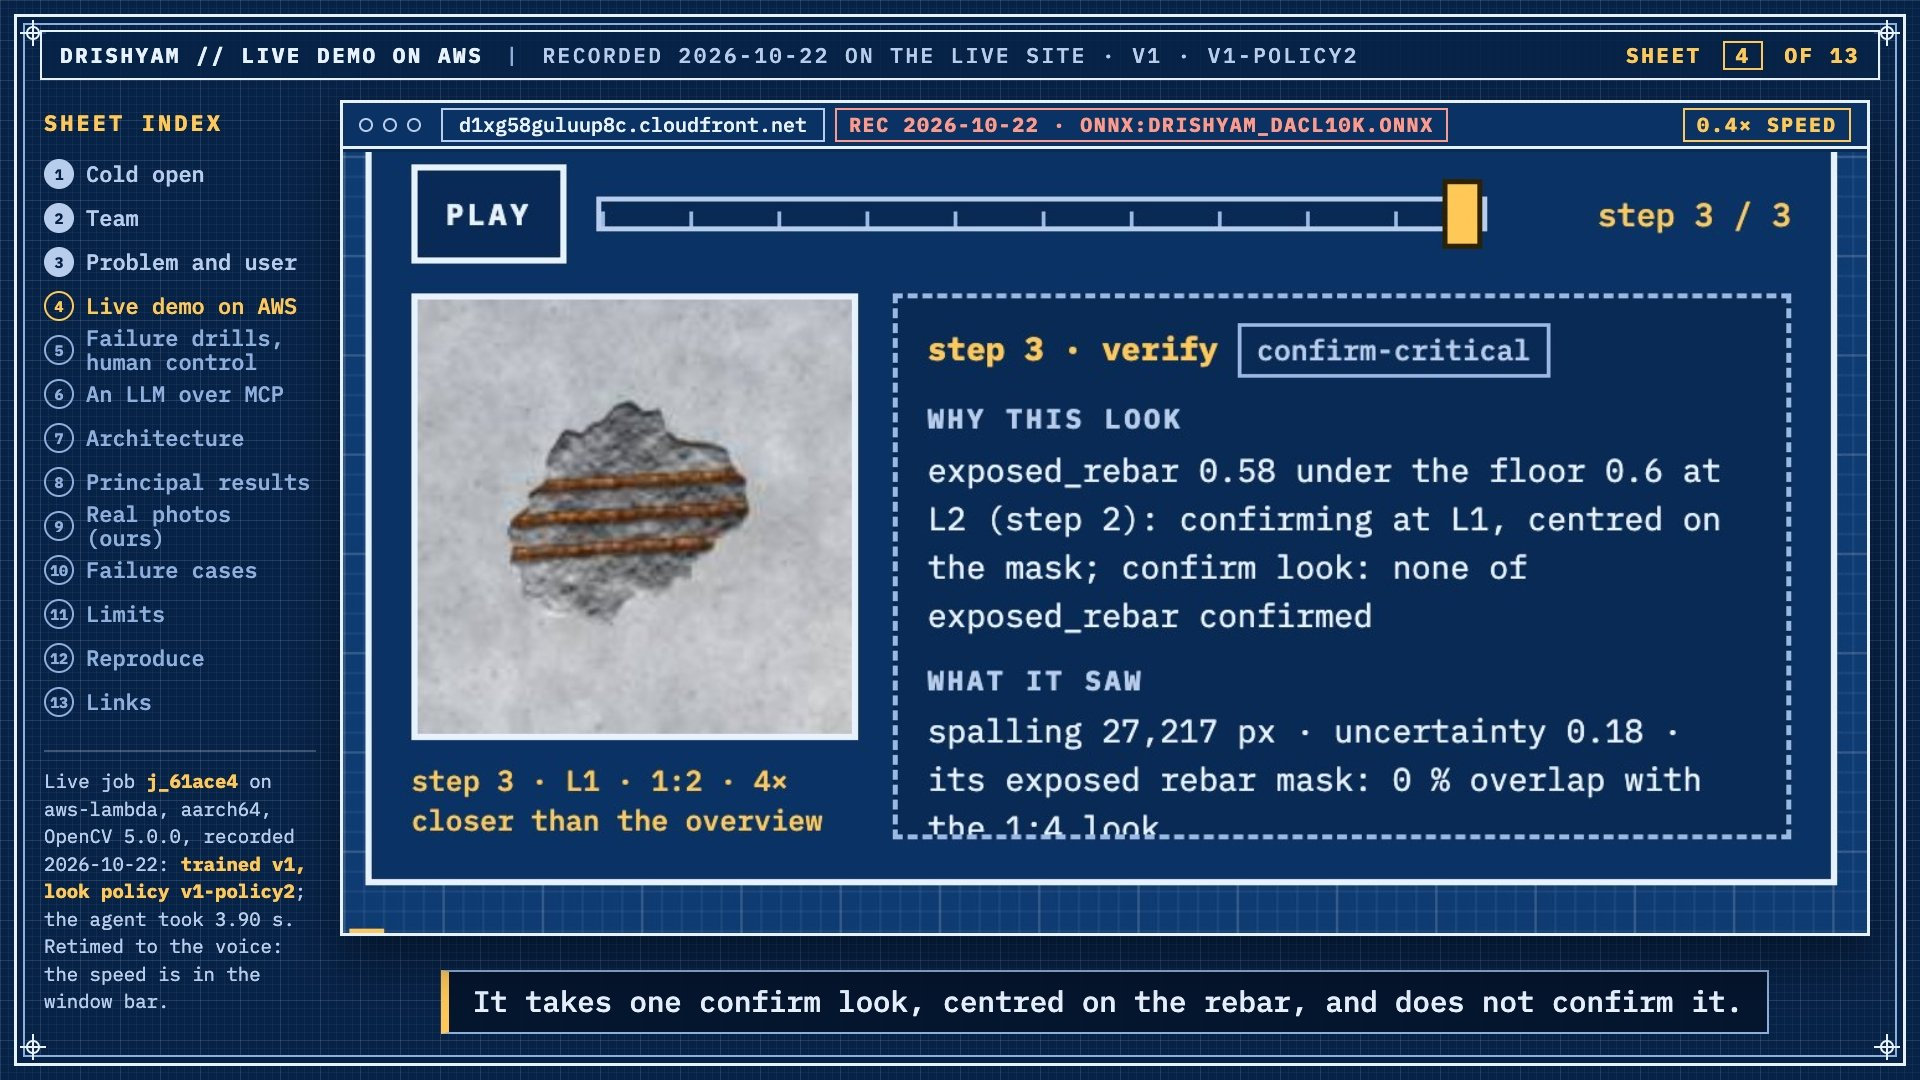
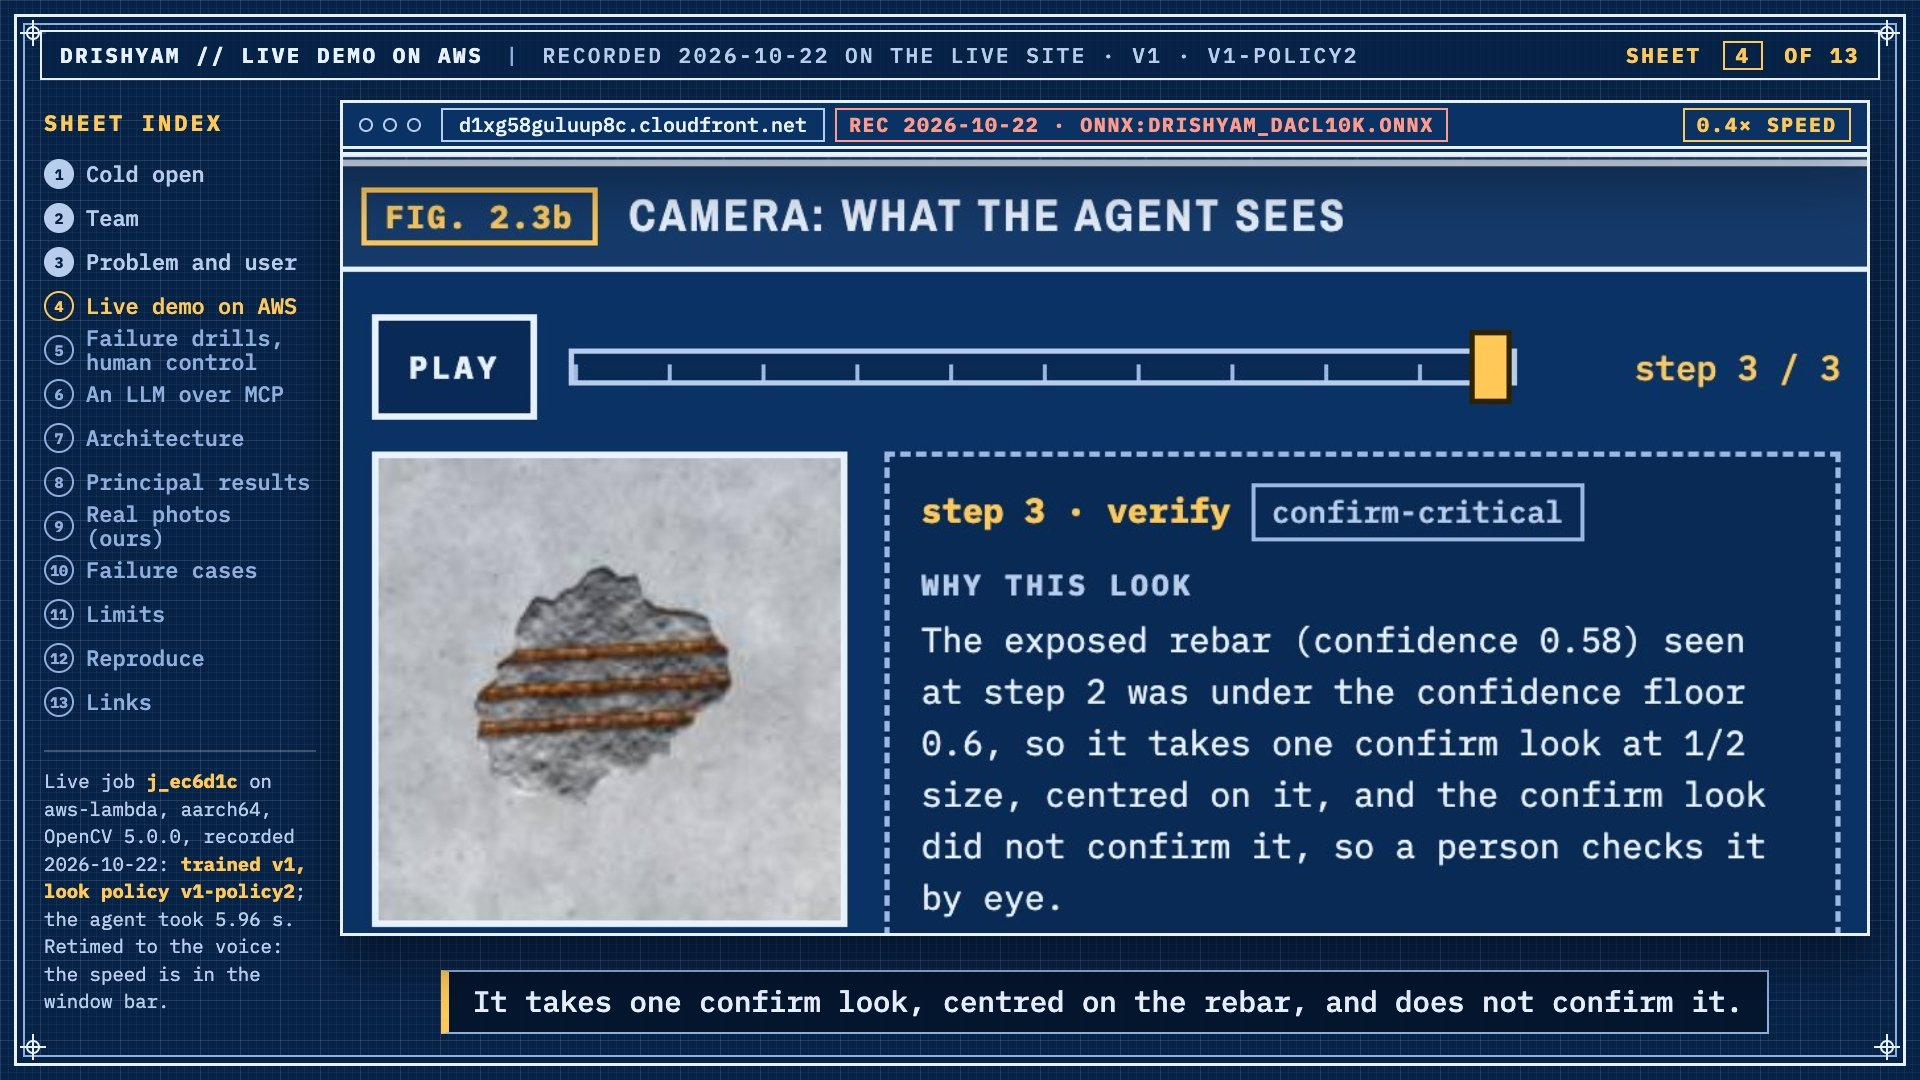
video: re-record the live chapter on ed7a080 (worded step panel) and render the film and the short
The site was redeployed at ed7a080, whose step panel words v1-policy2's held-mask and confirm-look
reasons instead of printing the raw rationale. The live footage is recorded again on it (07:26Z, jobs
j_ec6d1c guided, j_c81586 break it, j_76da9f KILL, j_2df829 Resume): the same runs as the first
recording of the day (the rebar held at 0.58 under the 0.6 floor, its L1 confirm look not confirming
it, a person to check it by eye; the spalling the one critical finding; the order incomplete after
its approval; the governor's fast model at step 5, "rm -rf /" rejected at step 6; KILL after 3 looks,
Resume stopping with g8 unvisited), so every narration assert holds unchanged.

The step-3 camera key now frames the panel's crop and WHY THIS LOOK and ends above WHAT IT SAW, whose
last line the site's fixed-height panel clips, through the hold's push. One full render: the film
247.9 s (56 cues), the 9:16 short 15.5 s; the poster is step 3's worded confirm look.

Changed region(s): [[0.1562, 0.1222, 0.9688, 0.8861], [0.0938, 0.7028, 0.125, 0.7333]]

diff --git a/video/film.js b/video/film.js
@@ -380,7 +380,9 @@ function buildLive() {
     KF(cw - 1.9, 560, 470, 1150), KF(cw + 0.15, 330, 560, 900),
     KF(ev['step:1'] - 0.6, 380, 560, 1060), KF(ev['step:2'] + 0.4, 340, 560, 900),
     KF(ev['step:2'] + 2.0, 950, 735, 660),   // step 2's decision: the spalling critical, the rebar held for a confirm look
-    KF(ev['step:3'] + 0.3, 950, 355, 640), KF(ev['step:3'] + 1.8, 950, 750, 660),   // the confirm look, then "a person checks it by eye"
+    // the confirm look: its crop and WHY THIS LOOK, the view ending above WHAT IT SAW (the site's panel clips that box's
+    // last line) through the hold's push; then the decision panel's "a person checks it by eye"
+    KF(ev['step:3'] + 0.3, 948, 289, 600), KF(ev['step:3'] + 1.8, 950, 750, 660),
     KF(ev['step:4'] + 0.3, 420, 560, 1000), KF(ev['done:guided'] + 0.3, 560, 330, 1080),
     KF(ev['click:Sign them off'], 640, 560, 1240), KF(ev['click:Sign them off'] + 1.4, 330, 720, 840),
     KF(ev[`approved:${N - 1}`] + 0.3, 420, 700, 900), KF(ev[`approved:${N - 1}`] + 1.2, 945, 400, 700),

diff --git a/video/plan.md b/video/plan.md
@@ -12,7 +12,7 @@ stamping in at each chapter.
 | --- | --- | --- |
 | `public/video/drishyam.mp4` | the video (H.264 + AAC, poster baked in as frame 0) | no: `public/video/*.mp4` is ignored; it ships to the site bucket at deploy time and as a release asset |
 | `public/video/drishyam.vtt` | captions, the same cues as the burned-in ones (written by the same build as the MP4) | yes |
-| `public/video/poster.jpg` | the agent's confirm look on the rebar in the live run (line `l5`, step 3: the camera panel with its crop and its reason, "confirm look: none of exposed_rebar confirmed"), settled | yes |
+| `public/video/poster.jpg` | the agent's confirm look on the rebar in the live run (line `l5`, step 3: the camera panel with its crop and WHY THIS LOOK, "...the confirm look did not confirm it, so a person checks it by eye"), settled | yes |
 | `brag-output/drishyam-short.mp4` | 15-20 s 9:16 cut: the cold open's run, the sign-off (the typing at real time, then a jump cut to Approve), ending on the settled APPROVED stamp of the spalling and the URL; labelled "recorded 2026-10-22 · live site · v1 · v1-policy2" and "the rebar went to a person to check by eye"; its three lines are o1, "Only a person can approve a critical finding." and "Try it live: the trained v1."; v1's held-out result in the lower third, with what v1-policy2 changes (8.75 critical boxes per photo, 0.91×; recall 0.99×) | no (brag-output/ is ignored) |
 | `brag-output/standin/film/` | `build.py --standin`: the film with the stand-in real-photo runs, if `--make-standin` made them (nothing is pending any more): `drishyam-standin.mp4`, `drishyam-standin.vtt`, `poster-standin.jpg`, `plan-tables.md` | no |
 
@@ -141,7 +141,7 @@ the line from the real summary, measures the whole film (both real photos) again
 summary charged another machine's cost table is refused.
 
 The live site runs v1 with the v1-policy2 look policy (since 2026-10-22), and the footage is of that build (the
-`/api/health` recorded with it, `video/live/health.json`: commit c1830c4). `video/live/aws-smoke.log` is a copy of
+`/api/health` recorded with it, `video/live/health.json`: commit ed7a080). `video/live/aws-smoke.log` is a copy of
 the main checkout's `runs/aws-smoke.log` (every `scripts/aws.sh smoke` run's `/api/health` and step p95) up to
 2026-10-21T11:38:30Z: `docs/aws.md` and `tests/test_live_state_doc.py` quote its eleven v1 runs, so the two smoke runs
 of 2026-10-22 (adf9474, c1830c4) are not in the copy yet. The build groups the runs by the segmenter their health
@@ -173,10 +173,9 @@ writes `health.json` and the boxes of its key fields, the segmenter's and the wh
 
 ## Length
 
-The committed tables below are the layout of 247.9 s: `r8` gained what the live look policy changes. The committed
-`public/video/drishyam.vtt` and poster, and the MP4, are still the render of 243.6 s from before that line (239.9 s
-before the live chapter was re-recorded on 2026-10-22); the next full render, after the live chapter is recorded
-again, brings them back in step. With the trained segmenter's line,
+Nothing is pending: the committed tables below are the film as rendered, 247.9 s (239.9 s before the live chapter
+was re-recorded on 2026-10-22; its new lines say more about the rebar, and `r8` says what the live look policy
+changes). With the trained segmenter's line,
 both real photos and the portraits on, the narration first measured 285 s; it came to 4:00 by cutting words and
 holds, not chapters:
 
@@ -201,9 +200,11 @@ and AWS and Arm (the arm Lambda, its latency then and now).
 ## How the footage is used, honestly
 
 - Every frame of the demo chapters is a screencast of a real job on https://d1xg58guluup8c.cloudfront.net
-  (recorded 2026-10-22, live jobs `j_61ace4` guided, `j_e1aec5` break it, `j_7d4406` KILL, `j_75944f` Resume), on the
-  build the site runs now: v1 with the v1-policy2 look policy (`video/live/health.json`: `onnx:drishyam_dacl10k.onnx`,
-  commit c1830c4). It replaced the footage of 2026-10-18, recorded on the classical engine. Each run's trace is saved,
+  (recorded 2026-10-22 at about 07:26Z, live jobs `j_ec6d1c` guided, `j_c81586` break it, `j_76da9f` KILL, `j_2df829`
+  Resume), on the build the site runs now: v1 with the v1-policy2 look policy (`video/live/health.json`:
+  `onnx:drishyam_dacl10k.onnx`, commit ed7a080, the deploy whose step panel words the held-mask and confirm-look
+  reasons). It replaced the footage of 2026-10-18, recorded on the classical engine, and a first recording of
+  2026-10-22 (c1830c4), whose step panel printed the raw rationale. Each run's trace is saved,
   token fields and embedded images removed, in `video/live/*.ndjson`; every live-run number in the voice or on screen
   comes from those files and `video/live/order_status.json`. Before the footage plays, `l0` says when and on what, with
   the camera on the recorded response's own `"segmenter"` field; `o1` says "its trained engine", and the cold open's
@@ -250,6 +251,9 @@ and AWS and Arm (the arm Lambda, its latency then and now).
 - `docs/architecture.png` is shown as committed. Its segment box says "default: classical, no weights" (the code's
   default); the deployed site opts in to v1, as `a4` says over it. Its footnote cites `segment.py:239` for `cv2.dnn.ENGINE_NEW`;
   the call is now at `drishyam/segment.py:298`. The claim itself (the one OpenCV-5-only call) still holds.
+- The site's step panel (FIG. 2.3b) has a fixed height, so at step 3 the last line of its WHAT IT SAW box is clipped
+  by the box. The camera's view of that panel ends above WHAT IT SAW (`film.js`, the step-3 key), so the clipped line
+  is not in the film; the fix belongs in the site.
 - Clicking "Try KILL" clears the last job, so the page re-lays out and scrolls back to the viewer; at about 7x speed
   the "How it works" sheet passes through the window for a fraction of a second, and after KILL the page scrolls up to
   the Demo sheet's head, where Resume is. It is the real page doing it.
@@ -387,7 +391,7 @@ and AWS and Arm (the arm Lambda, its latency then and now).
 | real-photo failure (text only) | image_0001435: exposed_rebar reported as corrosion | `public/results/codebrim/failures_text.json` | [category='Rebar, spall and stain confusion'].what_happened |
 | guided run: share of pixels read | 0.2487 | `video/live/guided.ndjson` | done.summary.pixels_frac |
 | guided run: critical findings | 1 | `video/live/guided.ndjson` | done.summary.critical_pending |
-| guided run: agent seconds | 3.902 | `video/live/guided.ndjson` | done.summary.seconds |
+| guided run: agent seconds | 5.955 | `video/live/guided.ndjson` | done.summary.seconds |
 | survey look: full width / L3 width | 8 | `video/live/guided.ndjson` | job.levels[0][0] / job.levels[3][0] |
 | privacy pass: faces, people, vehicles blurred | [0, 0, 0] | `video/live/guided.ndjson` | job.privacy |
 | survey look: what it drafted | ["corrosion", "spalling"] | `video/live/guided.ndjson` | finding[step=1], first state |
@@ -401,7 +405,7 @@ and AWS and Arm (the arm Lambda, its latency then and now).
 | ground truth (synthetic): boxes touched by a finding of their class / by the needs-a-look entry | [["spalling", "spalling", "crack"], ["exposed_rebar"]] | `public/samples/index.json` | bridge_03 boxes against the findings and not_assessed |
 | the work order after the sign-off: status, approvals | ["incomplete", 1] | `video/live/order_status.json` | status, approvals |
 | planner drill: rejected strategy | rm -rf / | `video/live/break.ndjson` | planner[status=rejected].reason |
-| governor drill: segmenter p95 (ms) | 2288.6 | `video/live/break.ndjson` | step[5].runtime.p95_ms['segment:accurate'] |
+| governor drill: segmenter p95 (ms) | 2355.4 | `video/live/break.ndjson` | step[5].runtime.p95_ms['segment:accurate'] |
 | governor drill: model switched to | fast | `video/live/break.ndjson` | step[5].model |
 | governor drill: the segmenter's SLA (ms) | 1500 | `video/live/break.ndjson` | step[5].governor.rationale |
 | KILL drill: halt cause | kill-switch | `video/live/kill.ndjson` | done.cause |
@@ -414,7 +418,7 @@ and AWS and Arm (the arm Lambda, its latency then and now).
 | /api/health arch | aarch64 | `video/live/health.json` | arch |
 | /api/health host | aws-lambda | `video/live/health.json` | host |
 | /api/health build | stock (not COOL) | `video/live/health.json` | build |
-| /api/health commit | c1830c48446ebddf8d163eadbd571e97f46e3d05 | `video/live/health.json` | commit |
+| /api/health commit | ed7a0801e282984250432a64e9cac31771363e84 | `video/live/health.json` | commit |
 | /api/health segmenter | onnx:drishyam_dacl10k.onnx | `video/live/health.json` | segmenter |
 | MCP: first verify call | 6 | `docs/mcp-session/exchange.jsonl` | [tool=verify][0].n |
 | MCP: its IoU | 0.0 | `docs/mcp-session/exchange.jsonl` | [tool=verify][0].content[0].value.iou |
